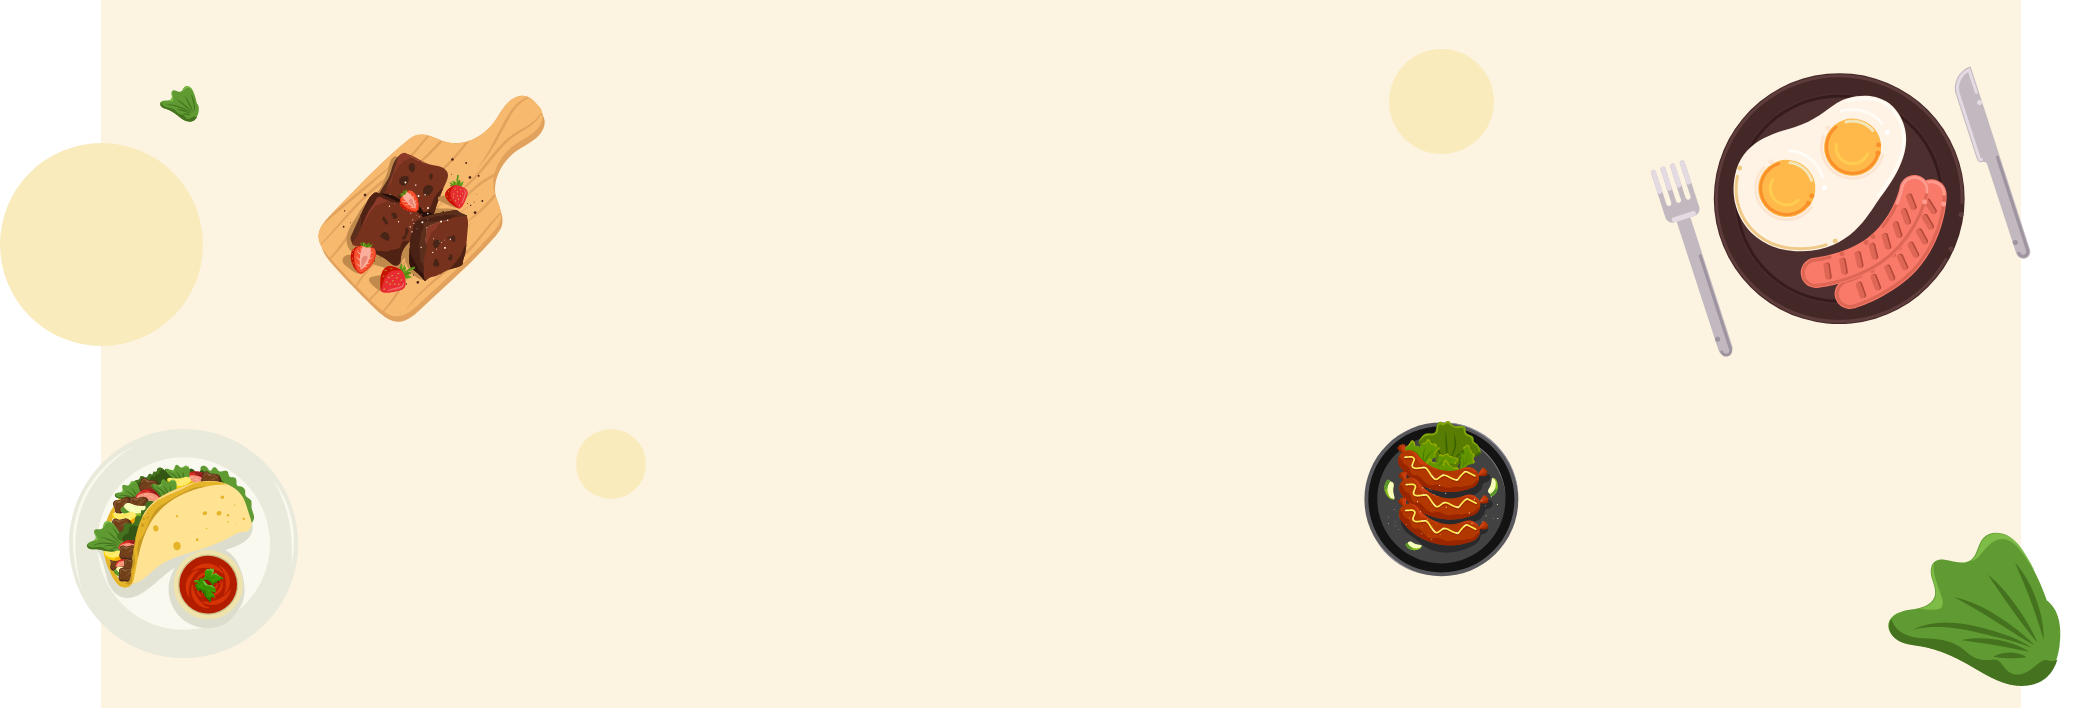
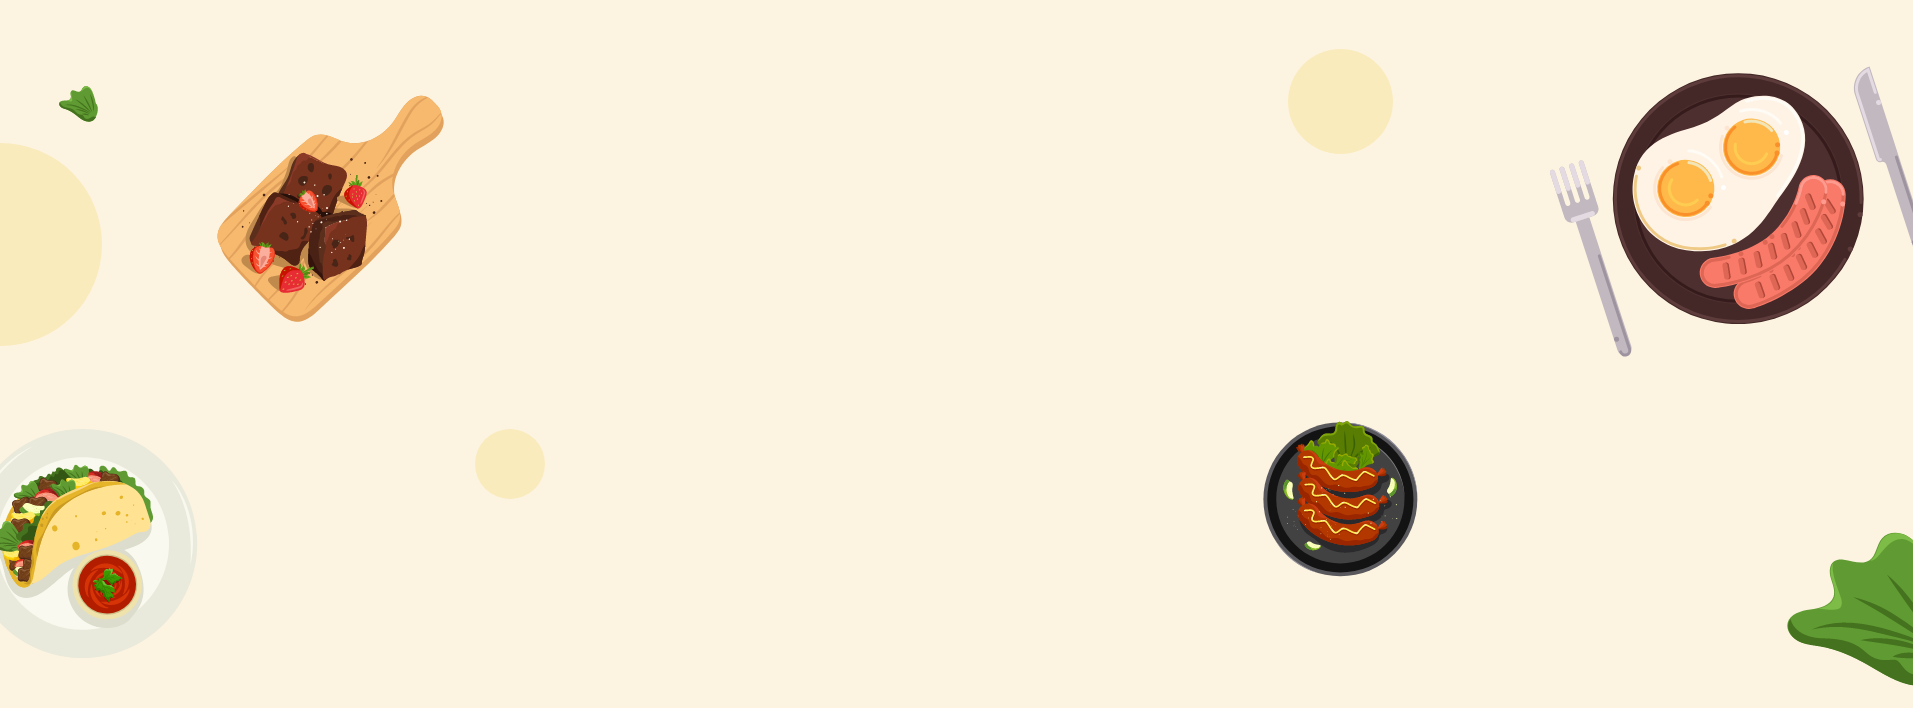
update

diff --git a/src/components/Foods/Foods.js b/src/components/Foods/Foods.js
@@ -1,10 +1,67 @@
-import React from 'react';
+import React, { useEffect, useState } from 'react';
+import { Row } from 'react-bootstrap';
+import { BrowserRouter, Link, Switch, Route } from 'react-router-dom';
+import Food from '../Food/Food';
+import './Foods.css'
 
 const Foods = () => {
+
+
+    const [foods, setFoods] = useState([]);
+
+    useEffect(() => {
+        fetch('https://nmso2.github.io/fake-data-json/data/foods.json')
+            .then(res => res.json())
+            .then(data => setFoods(data));
+    }, []);
+
     return (
         <div>
-            <h3>Foods</h3>
-        </div>
+            <BrowserRouter>
+                <div>
+                    <div className="d-flex justify-content-center">
+                        <Link className="mx-2 text-decoration-none link-hover" to="/home/breakfast">Breakfast</Link>
+                        <Link className="mx-2 text-decoration-none link-hover" to="/home/lunch">Lunch</Link>
+                        <Link className="mx-2 text-decoration-none link-hover" to="/home/dinner">Dinner</Link>
+                    </div>
+
+                    <Switch>
+                        <Route exact path="/">
+                            <Row xs={1} md={2} lg={3} className="g-5 p-5 mx-auto container">
+                                {
+                                    foods.filter(food => food.category === 'breakfast').map(food => <Food key={food.id} food={food} ></Food>
+                                    )
+                                }
+                            </Row>
+                        </Route>
+                        <Route exact path="/home/breakfast">
+                            <Row xs={1} md={2} lg={3} className="g-5 p-5 mx-auto container">
+                                {
+                                    foods.filter(food => food.category === 'breakfast').map(food => <Food key={food.id} food={food} ></Food>
+                                    )
+                                }
+                            </Row>
+                        </Route>
+                        <Route path="/home/lunch">
+                            <Row xs={1} md={2} lg={3} className="g-5 p-5 mx-auto container">
+                                {
+                                    foods.filter(food => food.category === 'lunch').map(food => <Food key={food.id} food={food} ></Food>
+                                    )
+                                }
+                            </Row>
+                        </Route>
+                        <Route path="/home/dinner">
+                            <Row xs={1} md={2} lg={3} className="g-5 p-5 mx-auto container">
+                                {
+                                    foods.filter(food => food.category === 'dinner').map(food => <Food key={food.id} food={food} ></Food>
+                                    )
+                                }
+                            </Row>
+                        </Route>
+                    </Switch>
+                </div>
+            </BrowserRouter>
+        </div >
     );
 };
 

diff --git a/src/components/Header/Header.js b/src/components/Header/Header.js
@@ -1,0 +1,30 @@
+import { faShoppingCart } from '@fortawesome/free-solid-svg-icons';
+import { FontAwesomeIcon } from '@fortawesome/react-fontawesome';
+import React from 'react';
+import { Button, Container, Nav, Navbar } from 'react-bootstrap';
+import { Link } from 'react-router-dom';
+import headerLogo from '../../resources/logo2.png'
+
+const Header = () => {
+    const cart = <FontAwesomeIcon icon={faShoppingCart} />
+
+    return (
+        <div>
+            <Navbar sticky="top" collapseOnSelect expand="lg" variant="light">
+                <Container>
+                    <Navbar.Brand as={Link} to="/"><img src={headerLogo} style={{ width: '10rem' }} alt="" /></Navbar.Brand>
+                    <Navbar.Toggle aria-controls="responsive-navbar-nav" />
+                    <Navbar.Collapse id="responsive-navbar-nav">
+                        <Nav className="ms-auto align-items-center">
+                            <Nav.Link className="p-0" href="#cart"><Link className="text-decoration-none nav-link" to="/cart">{cart}</Link></Nav.Link>
+                            <Nav.Link className="p-0" href="#login"><Link className="text-decoration-none nav-link" to="/login">Login</Link></Nav.Link>
+                            <Nav.Link eventKey={2} className="p-0" href="#signup"><Link className="text-decoration-none nav-link" to="/signup"><Button className="rounded-pill" style={{ background: "crimson", border: "none", padding: "7px 25px" }}>Sign Up</Button></Link></Nav.Link>
+                        </Nav>
+                    </Navbar.Collapse>
+                </Container>
+            </Navbar>
+        </div>
+    );
+};
+
+export default Header;

diff --git a/src/App.js b/src/App.js
@@ -1,23 +1,35 @@
-import logo from './logo.svg';
 import './App.css';
+import 'bootstrap/dist/css/bootstrap.min.css';
+import { BrowserRouter, Switch, Route } from 'react-router-dom';
+import Home from './components/Home/Home';
+import Login from './components/Login/Login/Login';
+import SignUp from './components/SignUp/SignUp';
+import NotFound from './components/NotFound/NotFound';
+import Header from './components/Header/Header';
 
 function App() {
   return (
     <div className="App">
-      <header className="App-header">
-        <img src={logo} className="App-logo" alt="logo" />
-        <p>
-          Edit <code>src/App.js</code> and save to reload.
-        </p>
-        <a
-          className="App-link"
-          href="https://reactjs.org"
-          target="_blank"
-          rel="noopener noreferrer"
-        >
-          Learn React
-        </a>
-      </header>
+      <BrowserRouter>
+        <Header></Header>
+        <Switch>
+          <Route exact path="/">
+            <Home></Home>
+          </Route>
+          <Route path="/home">
+            <Home></Home>
+          </Route>
+          <Route path="/login">
+            <Login></Login>
+          </Route>
+          <Route path="/signup">
+            <SignUp></SignUp>
+          </Route>
+          <Route path="*">
+            <NotFound></NotFound>
+          </Route>
+        </Switch>
+      </BrowserRouter>
     </div>
   );
 }

diff --git a/src/components/Home/Home.js b/src/components/Home/Home.js
@@ -1,12 +1,28 @@
 import React from 'react';
+import { FormControl, InputGroup, Button } from 'react-bootstrap';
+import backgroundImg from '../../resources/bannerbackground.png'
+import Foods from '../Foods/Foods';
 
-// https://nmso2.github.io/fake-data-json/data/foods.json
-
-const Home = () => {
+const Home = ({ children }) => {
     return (
         <div>
-            <h3>Home</h3>
+            <img className="mb-5 img-fluid" src={backgroundImg} alt="" />
+            <InputGroup className="w-25 position-absolute top-50 start-50">
+                <FormControl
+                    placeholder="Recipient's username"
+                    aria-label="Recipient's username"
+                    aria-describedby="basic-addon2"
+                    className="rounded-pill"
+                />
+                <Button variant="outline-secondary" id="button-addon2" className="rounded-pill">
+                    Button
+                </Button>
+            </InputGroup>
+
+            <Foods></Foods>
+
         </div>
+
     );
 };
 

diff --git a/src/components/Food/Food.js b/src/components/Food/Food.js
@@ -1,10 +1,26 @@
 import React from 'react';
+import { Card, Col } from 'react-bootstrap';
+import './Food.css'
 
-const Food = () => {
+const Food = (props) => {
+    const { name, img, price, detail } = props.food;
     return (
         <div>
-            <h3>Food</h3>
-        </div>
+            <Col className="card-hover">
+                <Card className="shadow-sm rounded-0" style={{ height: "430px", }}>
+                <Card.Img variant="top" src={img} className="p-2" />
+                <Card.Body>
+                    <Card.Title className="p-0 m-0">{name}</Card.Title>
+                    <Card.Text>
+                        <p className="p-0 m-0">$ {price}</p>
+                        <p>{detail}</p>
+                    </Card.Text>
+                </Card.Body>
+            </Card>
+        </Col>
+
+
+        </div >
     );
 };
 

diff --git a/public/index.html b/public/index.html
@@ -2,7 +2,7 @@
 <html lang="en">
   <head>
     <meta charset="utf-8" />
-    <link rel="icon" href="%PUBLIC_URL%/favicon.ico" />
+    <link rel="icon" href="%PUBLIC_URL%/favicon.png" />
     <meta name="viewport" content="width=device-width, initial-scale=1" />
     <meta name="theme-color" content="#000000" />
     <meta
@@ -24,7 +24,7 @@
       work correctly both with client-side routing and a non-root public URL.
       Learn how to configure a non-root public URL by running `npm run build`.
     -->
-    <title>React App</title>
+    <title>Hot Onion</title>
   </head>
   <body>
     <noscript>You need to enable JavaScript to run this app.</noscript>

diff --git a/src/components/Food/Food.css b/src/components/Food/Food.css
@@ -1,0 +1,6 @@
+.card-hover:hover {
+    transform: scale(1.03);
+    transition: ease-out;
+    transition-duration: 300ms;
+    box-shadow: rgba(0, 0, 0, 0.25) 0px 54px 55px, rgba(0, 0, 0, 0.12) 0px -12px 30px, rgba(0, 0, 0, 0.12) 0px 4px 6px, rgba(0, 0, 0, 0.17) 0px 12px 13px, rgba(0, 0, 0, 0.09) 0px -3px 5px;
+  }

diff --git a/src/components/Foods/Foods.css b/src/components/Foods/Foods.css
@@ -1,0 +1,15 @@
+.link-hover:hover{
+    color: crimson;
+    position: relative;
+}
+.link-hover{
+    color: black;
+}
+.link-hover:hover::after {
+    content: "";
+    position: absolute;
+    left: 25%;
+    right: 25%;
+    bottom: 0;
+    border: 1px solid crimson;
+  }

diff --git a/src/components/NotFound/NotFound.js b/src/components/NotFound/NotFound.js
@@ -1,11 +1,11 @@
 import React from 'react';
 
-const Login = () => {
+const NotFound = () => {
     return (
         <div>
-            <h3>Login</h3>
+            <h3>Not Found</h3>
         </div>
     );
 };
 
-export default Login;
+export default NotFound;
